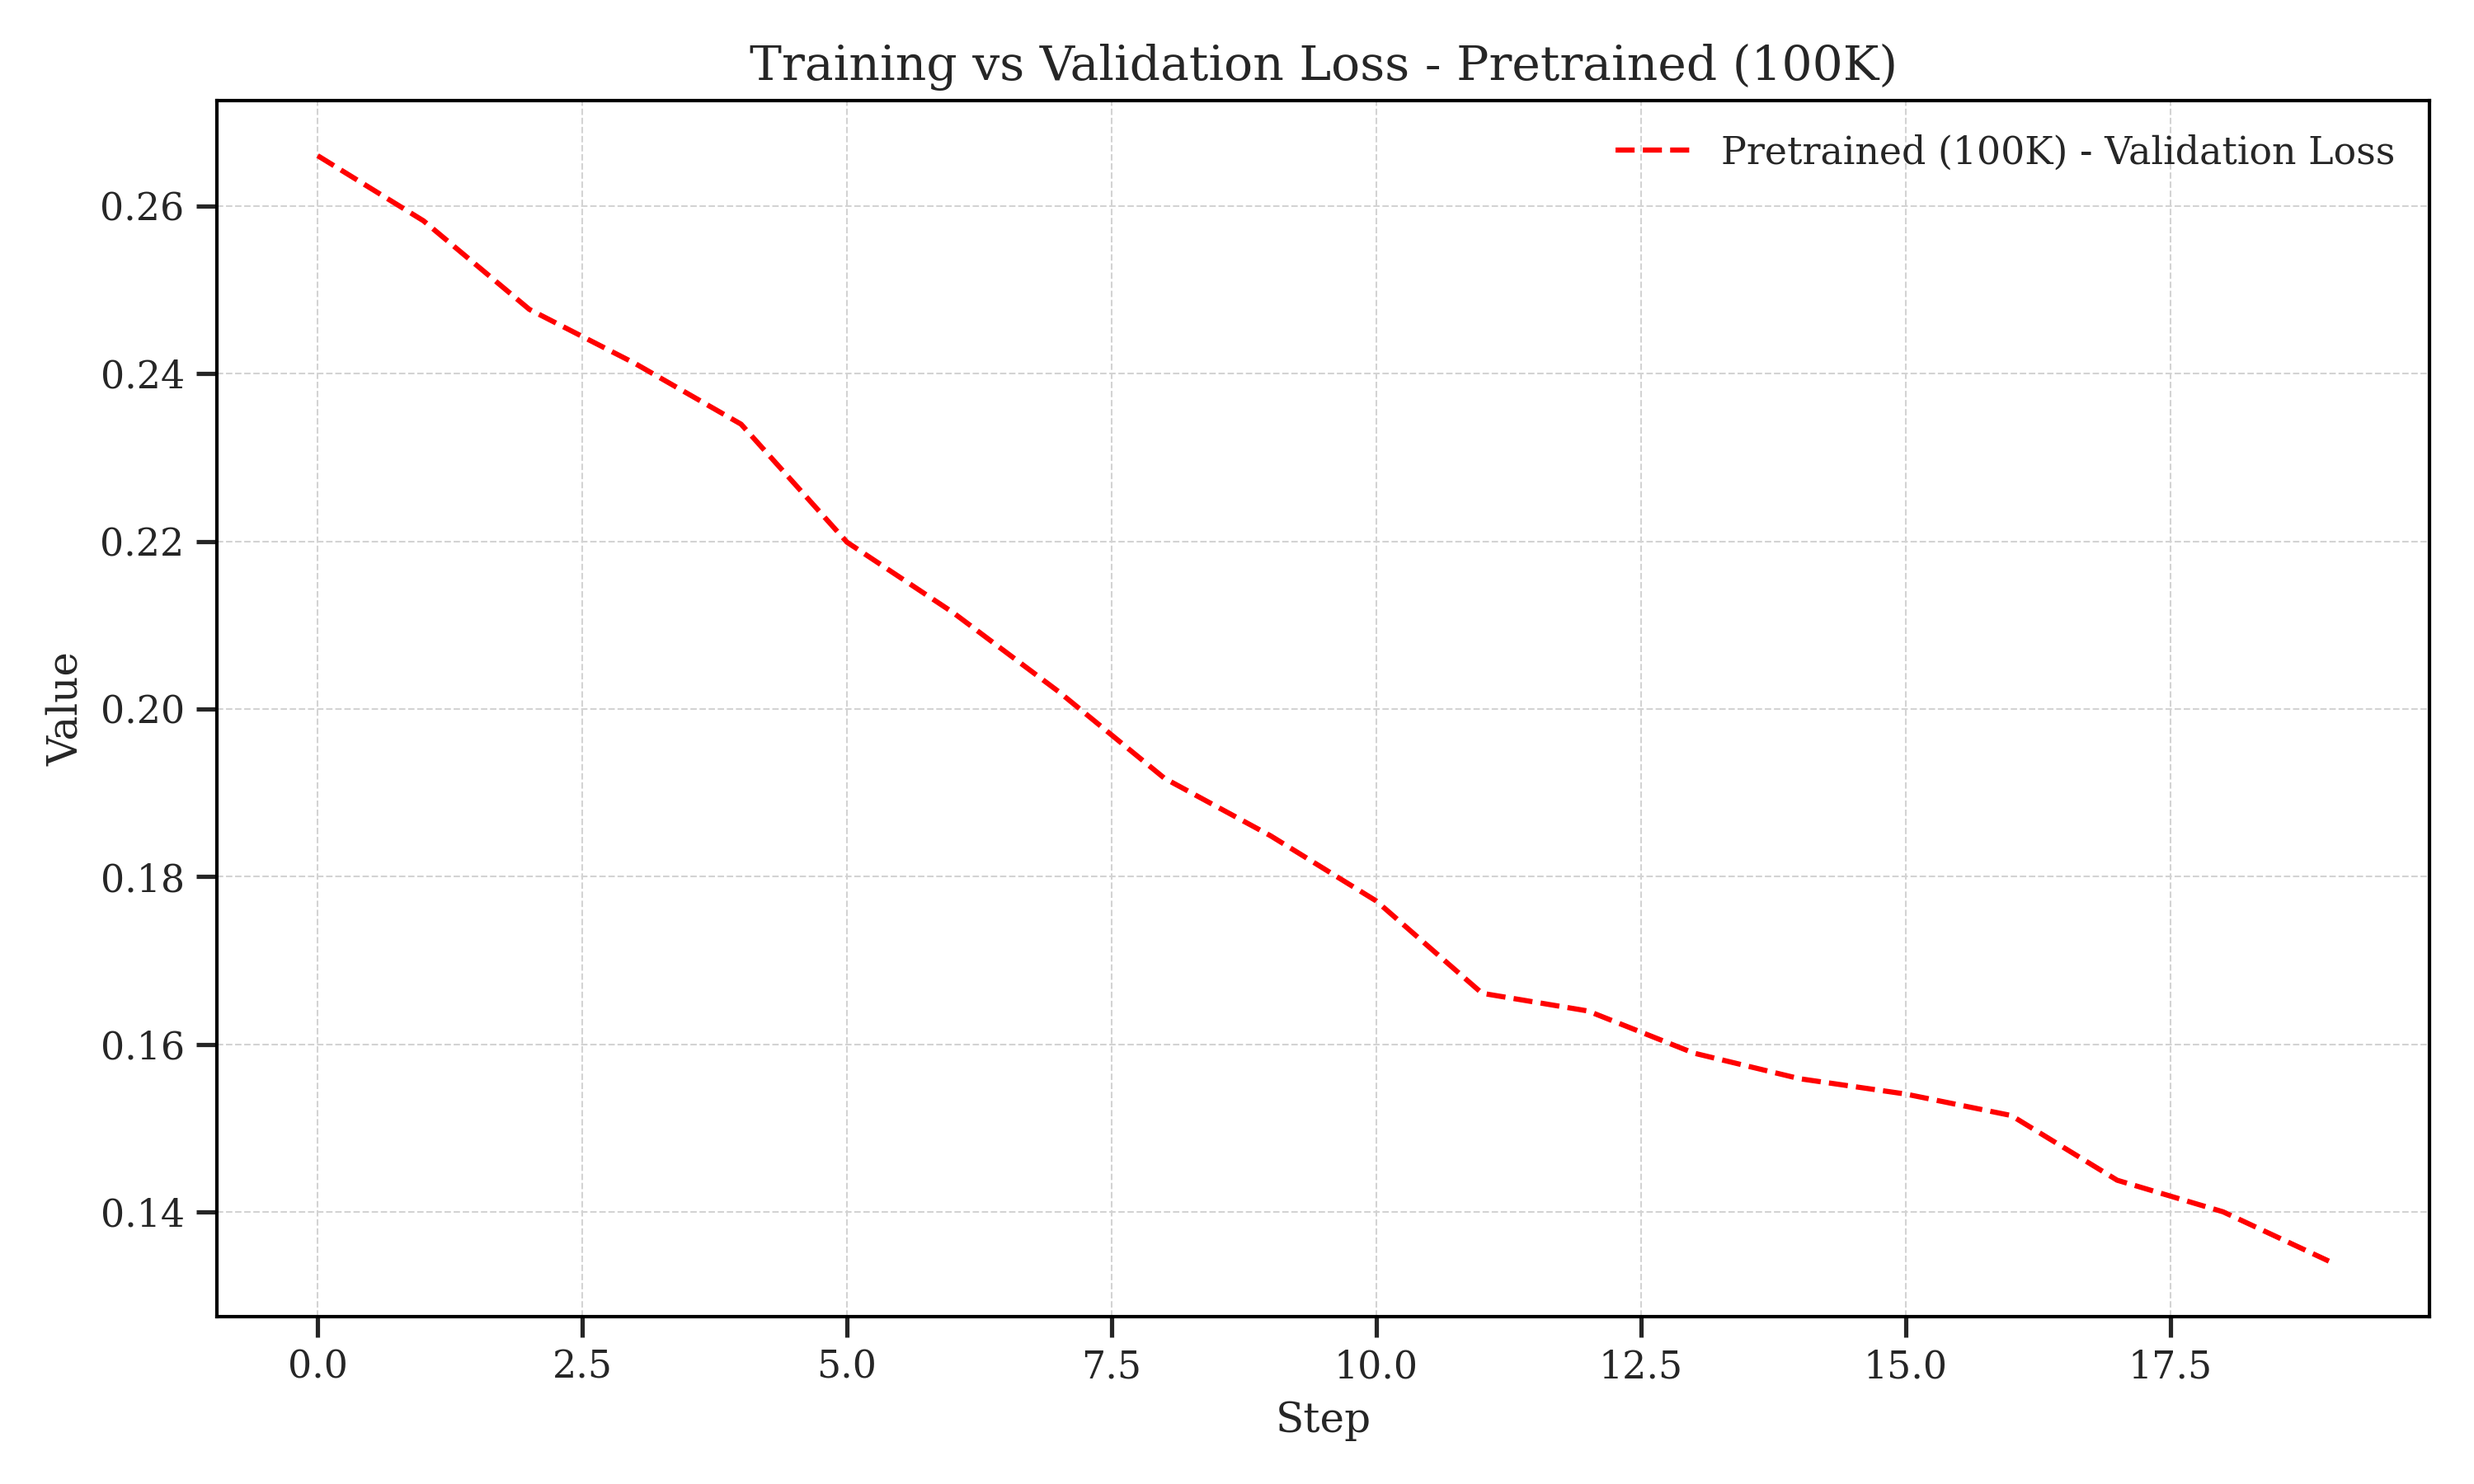
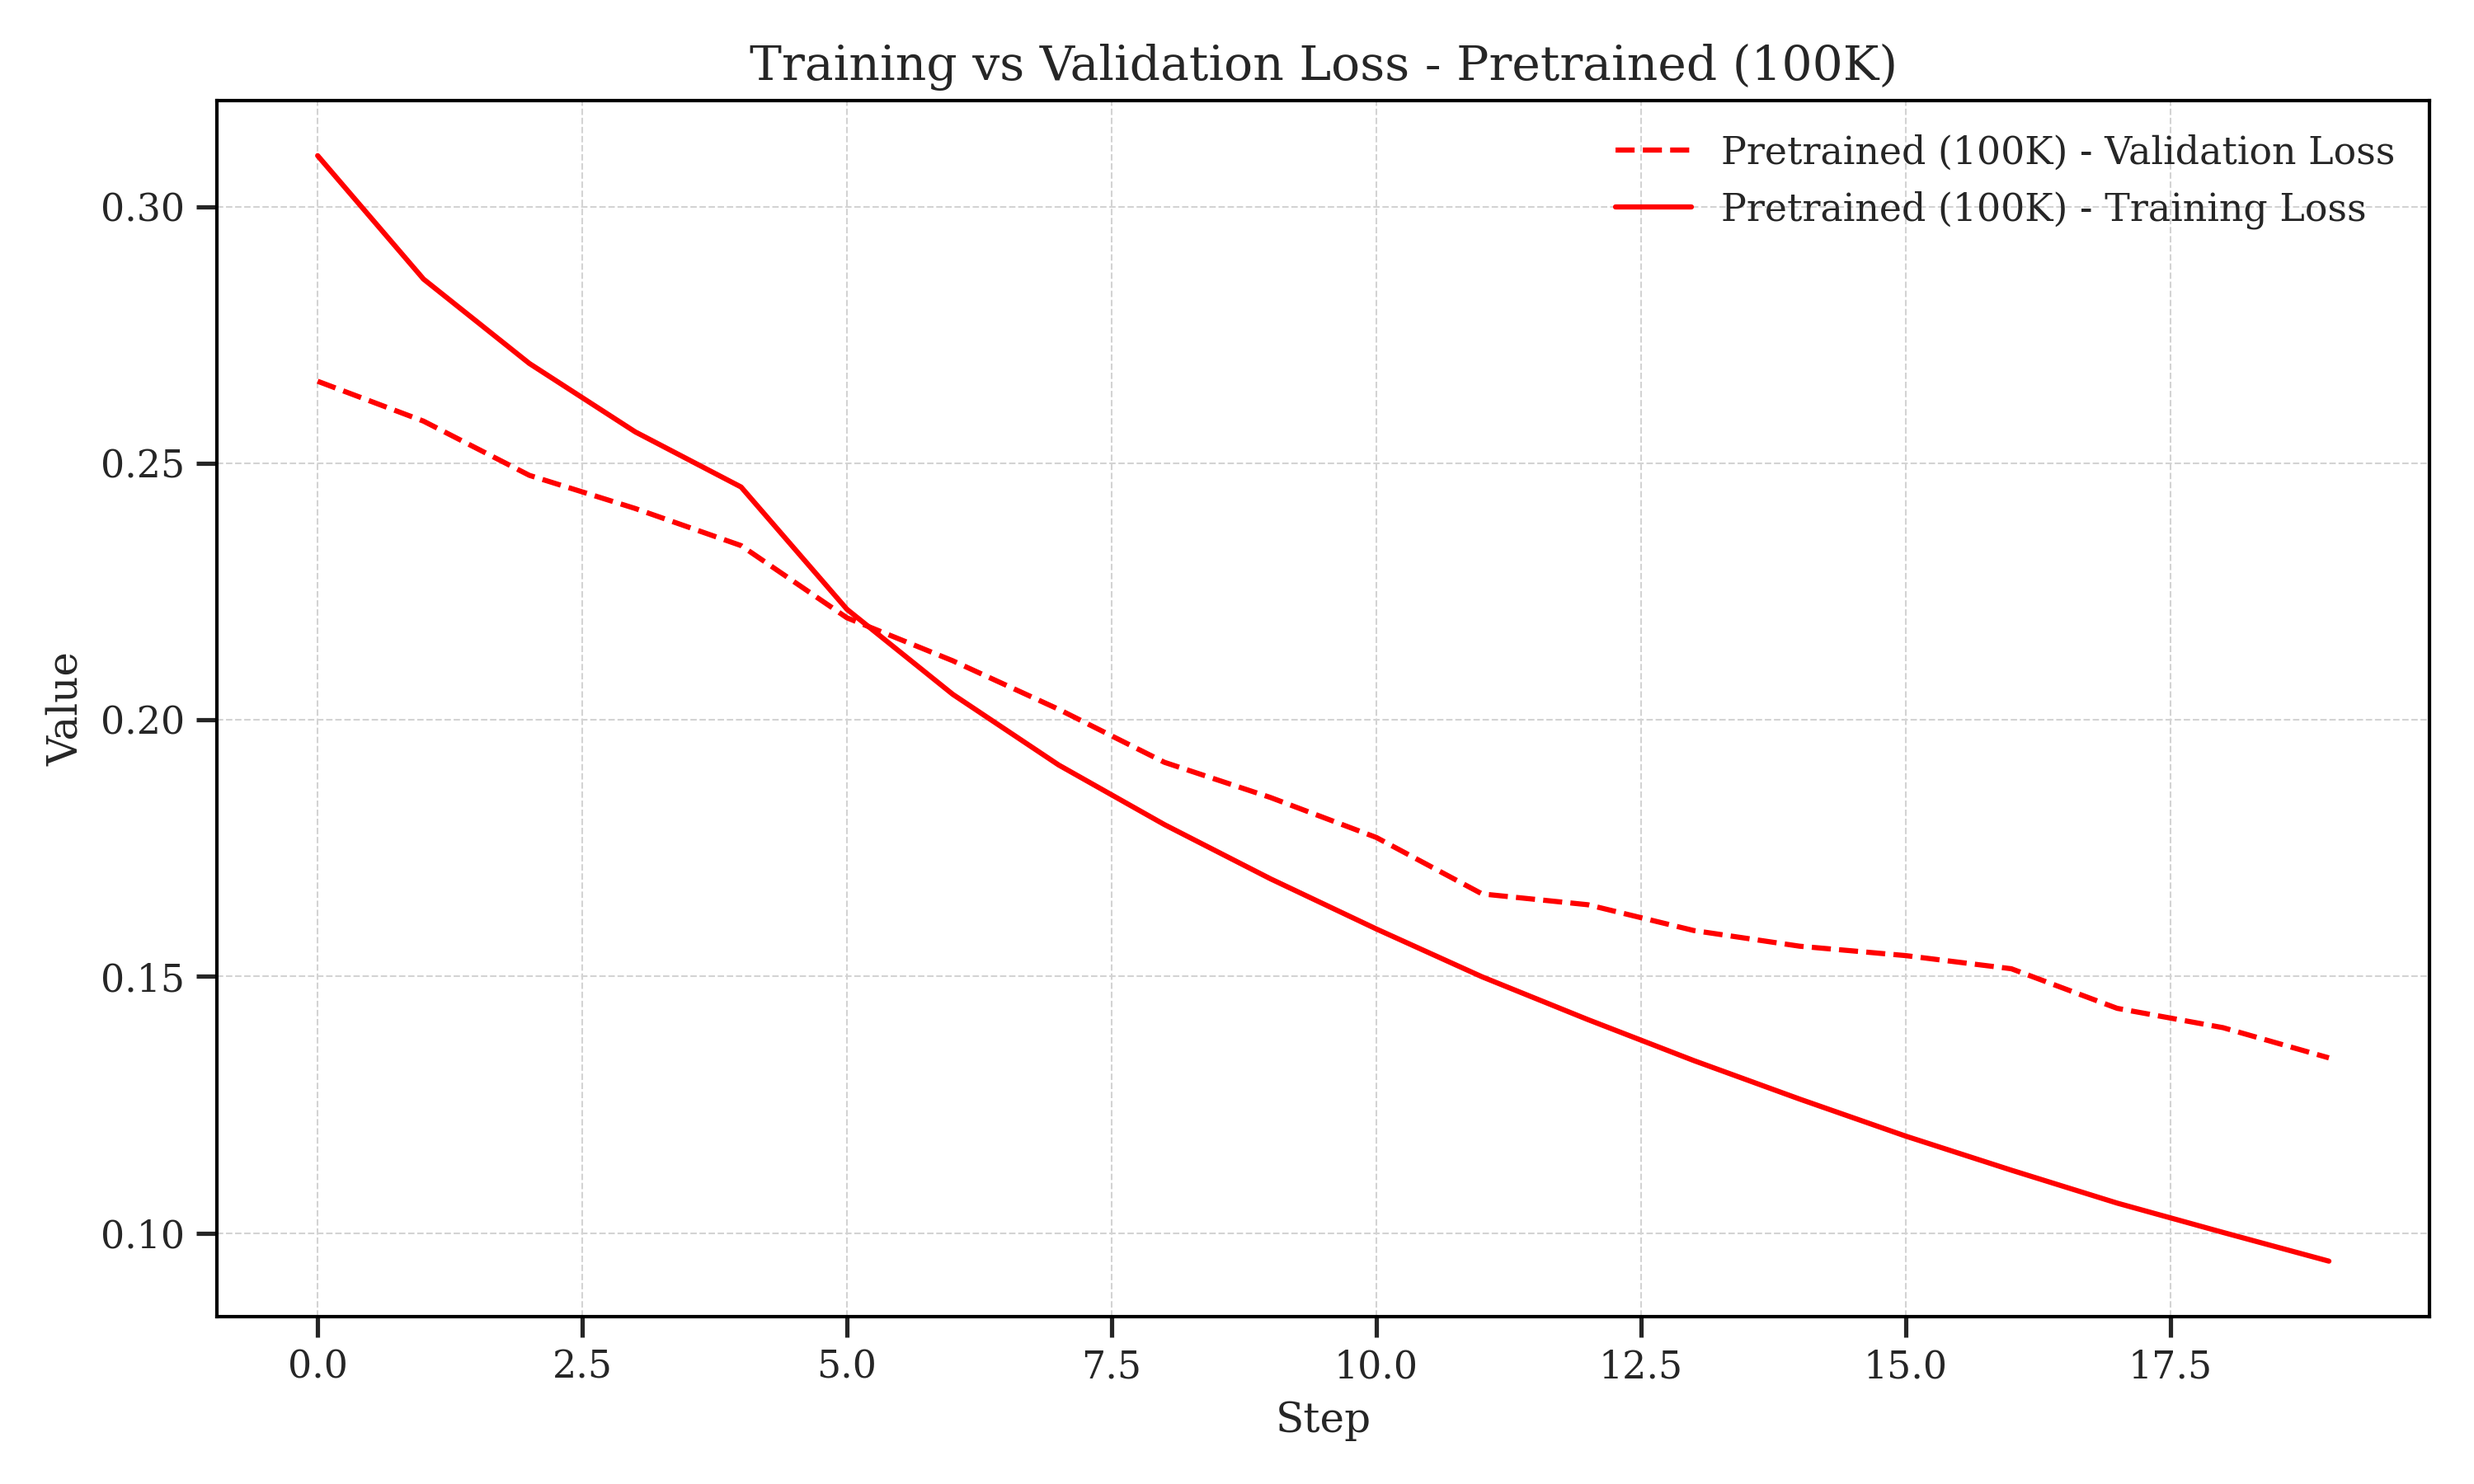
iam done but stuff looks good

diff --git a/DataVisualization/wandb/visualizer.py b/DataVisualization/wandb/visualizer.py
@@ -830,6 +830,164 @@ class Visualizer:
         return fig
 
 
+    def plot_metrics_vs_dataset_size(self,
+                             runs_by_size: Dict[str, List[ModelRun]],
+                             metric: str,
+                             title: Optional[str] = None,
+                             figsize: Tuple[int, int] = (10, 6),
+                             run_type_colors: Optional[Dict[str, str]] = None,
+                             metric_mapping: Optional[Dict[str, Dict[str, str]]] = None,
+                             size_order: Optional[List[str]] = None,
+                             include_markers: bool = True,
+                             log_scale: bool = False) -> plt.Figure:
+        """
+        Create a line plot showing how a metric changes with dataset size.
+
+        Args:
+            runs_by_size: Dictionary mapping dataset sizes to lists of runs
+                        e.g., {"2K": [AST_2K, PRETRAINED_2K], "20K": [AST_20K, PRETRAINED_20K], ...}
+            metric: Base metric name to plot (e.g., "Val Accuracy")
+            title: Optional title for the plot
+            figsize: Figure size (width, height)
+            run_type_colors: Dictionary mapping run types to colors
+                            e.g., {"AST": "red", "Pretrained": "blue"}
+            metric_mapping: Optional dictionary mapping run type to metric name patterns
+            size_order: Optional list to specify the order of sizes on the x-axis
+                    e.g., ["2K", "20K", "100K"]
+            include_markers: Whether to add markers to the data points
+            log_scale: Whether to use log scale for the x-axis (useful for wide range of sizes)
+
+        Returns:
+            Matplotlib figure object
+        """
+        fig, ax = plt.subplots(figsize=figsize)
+
+        # Determine size order if not provided
+        if size_order is None:
+            # Try to extract numbers from size strings and sort
+            def extract_num(s):
+                return int(''.join(filter(str.isdigit, s)))
+
+            try:
+                size_order = sorted(runs_by_size.keys(), key=extract_num)
+            except:
+                # Fallback to default sort
+                size_order = sorted(runs_by_size.keys())
+
+        # Collect runs by type to plot lines connecting same type
+        run_types = set()
+        runs_by_type = {}
+
+        for size in size_order:
+            for run in runs_by_size.get(size, []):
+                # Determine run type
+                if "AST" in run.shortname:
+                    run_type = "AST"
+                elif "PRETRAINED" in run.shortname:
+                    run_type = "Pretrained"
+                else:
+                    run_type = "Other"
+
+                run_types.add(run_type)
+
+                if run_type not in runs_by_type:
+                    runs_by_type[run_type] = {}
+
+                runs_by_type[run_type][size] = run
+
+        # Plot lines for each run type
+        for run_type in sorted(run_types):
+            sizes = []
+            values = []
+
+            for size in size_order:
+                if size in runs_by_type[run_type]:
+                    run = runs_by_type[run_type][size]
+                    run_data = self.get_run_data(run)
+
+                    # Get the appropriate metric name for this run type
+                    if run_type in metric_mapping and metric in metric_mapping[run_type]:
+                        actual_metric_name = metric_mapping[run_type][metric]
+                    else:
+                        actual_metric_name = metric
+
+                    try:
+                        # Try to get metric info
+                        try:
+                            metric_info = get_metric(actual_metric_name)
+                            display_name = metric_info.display_name
+                        except:
+                            display_name = actual_metric_name
+
+                        metric_series = get_run_metric_data(run_data, actual_metric_name)
+
+                        if len(metric_series) == 0:
+                            print(f"Warning: No data found for metric '{actual_metric_name}' in run '{run.display_name}'")
+                            continue
+
+                        # Get the final value
+                        final_value = float(metric_series.iloc[-1])
+
+                        sizes.append(size)
+                        values.append(final_value)
+
+                    except KeyError as e:
+                        print(f"Error getting {actual_metric_name} for {run.display_name}: {e}")
+
+            # Plot the line if we have data points
+            if sizes and values:
+                # Get color for this run type
+                color = run_type_colors.get(run_type, "gray")
+
+                # Create market style
+                marker = 'o' if include_markers else None
+
+                # Plot the line
+                ax.plot(sizes, values, marker=marker, label=run_type,
+                    color=color, linewidth=2, markersize=8)
+
+                # Add data labels
+                for x, y in zip(sizes, values):
+                    ax.text(x, y + 0.01, f'{y:.3f}', ha='center', va='bottom', fontsize=9)
+
+        # Set plot properties
+        if title:
+            ax.set_title(title)
+        else:
+            try:
+                metric_display = get_metric(metric).display_name
+            except:
+                metric_display = metric
+            ax.set_title(f"{metric_display} vs Dataset Size")
+
+        # Set axis labels
+        ax.set_xlabel("Dataset Size")
+
+        try:
+            y_label = get_metric(metric).display_name
+        except:
+            y_label = metric
+        ax.set_ylabel(y_label)
+
+        # Set x-axis to log scale if requested
+        if log_scale:
+            ax.set_xscale('log')
+
+        # Set x-ticks to the dataset sizes
+        ax.set_xticks(range(len(size_order)))
+        ax.set_xticklabels(size_order)
+
+        # Add grid
+        ax.grid(True, linestyle='--', alpha=0.7)
+
+        # Add legend
+        ax.legend()
+
+        fig.tight_layout()
+
+        return fig
+
+
     def save_figure(self, fig: plt.Figure, filename: str) -> Path:
         """Save a figure to a file in the output directory"""
         # Clean up filename to be filesystem-friendly

diff --git a/DataVisualization/wandb/new_main.py b/DataVisualization/wandb/new_main.py
@@ -27,10 +27,10 @@ login()
 
 visualizer = Visualizer(output_dir=Path("custom_plots"))
 
-individualFigures = False
-comparisonFigures = False
-confusionComparison = False
-finalComparisons = False
+individualFigures = True
+comparisonFigures = True
+confusionComparison = True
+finalComparisons = True
 sizeVsPerf = True
 
 run_colors = {
@@ -42,6 +42,11 @@ run_colors = {
     PRETRAINED_100K.id: "#f26849"   # Dark Orange
 }
 
+run_type_colors = {
+    "AST": "#CC2222",               # Dark Red
+    "Pretrained": "#008F4F"         # Dark Green
+}
+
 # so I got this idea a bit too late, and doesnt make sense to go back and implement it for the older methods
 # we're never gonna use this project again so whatever x)
 metric_mapping = {
@@ -51,6 +56,11 @@ metric_mapping = {
         "Recall": "Train Recall",
         "F1 Score": "Train F1 Score",
         "Loss": "Train Loss",
+        "Train Accuracy": "Train Accuracy",
+        "Train Precision": "Train Precision",
+        "Train Recall": "Train Recall",
+        "Train F1 Score": "Train F1 Score",
+        "Train Loss": "Train Loss",
         "Val Accuracy": "Val Accuracy",
         "Val Precision": "Val Precision",
         "Val Recall": "Val Recall",
@@ -67,7 +77,7 @@ metric_mapping = {
         "Train Precision": "Precision",
         "Train Recall": "Recall",
         "Train F1 Score": "F1 Score",
-        "Loss": "Loss",
+        "Train Loss": "Loss",
         "Val Accuracy": "Val Accuracy",
         "Val Precision": "Val Precision",
         "Val Recall": "Val Recall",
@@ -75,6 +85,51 @@ metric_mapping = {
         "Val Loss": "Val Loss"
     }
 }
+
+runs_by_size = {
+    "2K": [AST_2K, PRETRAINED_2K],
+    "20K": [AST_20K, PRETRAINED_20K],
+    "100K": [AST_100K, PRETRAINED_100K]
+}
+
+
+if sizeVsPerf:
+
+    metrics = [
+        "Train Accuracy",
+        "Train Precision",
+        "Train Recall",
+        "Train F1 Score",
+        "Train Loss",
+        "Val Accuracy",
+        "Val Precision",
+        "Val Recall",
+        "Val F1 Score",
+        "Val Loss"
+    ]
+
+    for metric in metrics:
+        try:
+            metric_info = get_metric(metric)
+            metric_display = metric_info.display_name
+        except:
+            metric_display = metric
+
+        size_performance_plot = visualizer.plot_metrics_vs_dataset_size(
+            runs_by_size=runs_by_size,
+            metric=metric,
+            title=f"{metric_display} vs Dataset Size",
+            figsize=(10, 6),
+            run_type_colors=run_type_colors,
+            metric_mapping=metric_mapping,
+            size_order=["2K", "20K", "100K"],
+            include_markers=True
+        )
+
+        # Save the figure
+        metric_filename = metric.lower().replace(" ", "_").replace("/", "_")
+        visualizer.save_figure(size_performance_plot, f"SIZE_VS_{metric_filename}.png")
+
 
 
 if finalComparisons:
@@ -148,7 +203,17 @@ if individualFigures:
     print("#########################")
     print("Creating figures PER RUN")
     print("#########################")
-    for run in [AST_2K, AST_20K, AST_100K, PRETRAINED_2K, PRETRAINED_20K, PRETRAINED_100K]:
+
+    run_data = [
+        (AST_2K, "AST"),
+        (AST_20K, "AST"),
+        (AST_100K, "AST"),
+        (PRETRAINED_2K, "pretrained"),
+        (PRETRAINED_20K, "pretrained"),
+        (PRETRAINED_100K, "pretrained"),
+    ]
+
+    for run, run_type in run_data:
         print(f"Creating figures for {run.display_name}...")
 
         print("Making confusion matrices")
@@ -182,7 +247,7 @@ if individualFigures:
         print("Making train/val loss graphs")
         fig_loss = visualizer.compare_metrics(
             run=run,
-            metrics=["Train Loss", "Val Loss"],
+            metrics=["Train Loss", "Val Loss", "Loss"],
             title=f"Training vs Validation Loss - {run.display_name}",
             figsize=(10, 6),
             smoothing=5
@@ -192,19 +257,21 @@ if individualFigures:
         print("Making classification metrics graphs")
 
         for metric in [
-            ("Train Accuracy","Val Accuracy"),
-            ("Train Precision", "Val Precision"),
-            ("Train Recall", "Val Recall"),
-            ("Train F1 Score", "Val F1 Score")
+            ("Train Accuracy", "Val Accuracy", "Accuracy"),
+            ("Train Precision", "Val Precision", "Precision"),
+            ("Train Recall", "Val Recall", "Recall"),
+            ("Train F1 Score", "Val F1 Score", "F1 Score")
         ]:
+            # no I dont think this is good code, but I am too lazy to fix it
+            train_metric = metric[2] if run_type.lower() == "pretrained" else metric[0]
             fig_class_metrics = visualizer.compare_metrics(
                 run=run,
-                metrics=[metric[0], metric[1]],
-                title=f"{metric[0]} vs {metric[1]} - {run.display_name}",
+                metrics=[train_metric, metric[1]],
+                title=f"{train_metric} vs {metric[1]} - {run.display_name}",
                 figsize=(10, 6),
                 smoothing=5
             )
-            pretty_name = f"{metric[0].lower().replace(' ','_')}"
+            pretty_name = f"{metric[2].lower().replace(' ','_')}_val_vs_train"
             visualizer.save_figure(fig_class_metrics, f"{run.shortname}_{pretty_name}.png")
 
 
